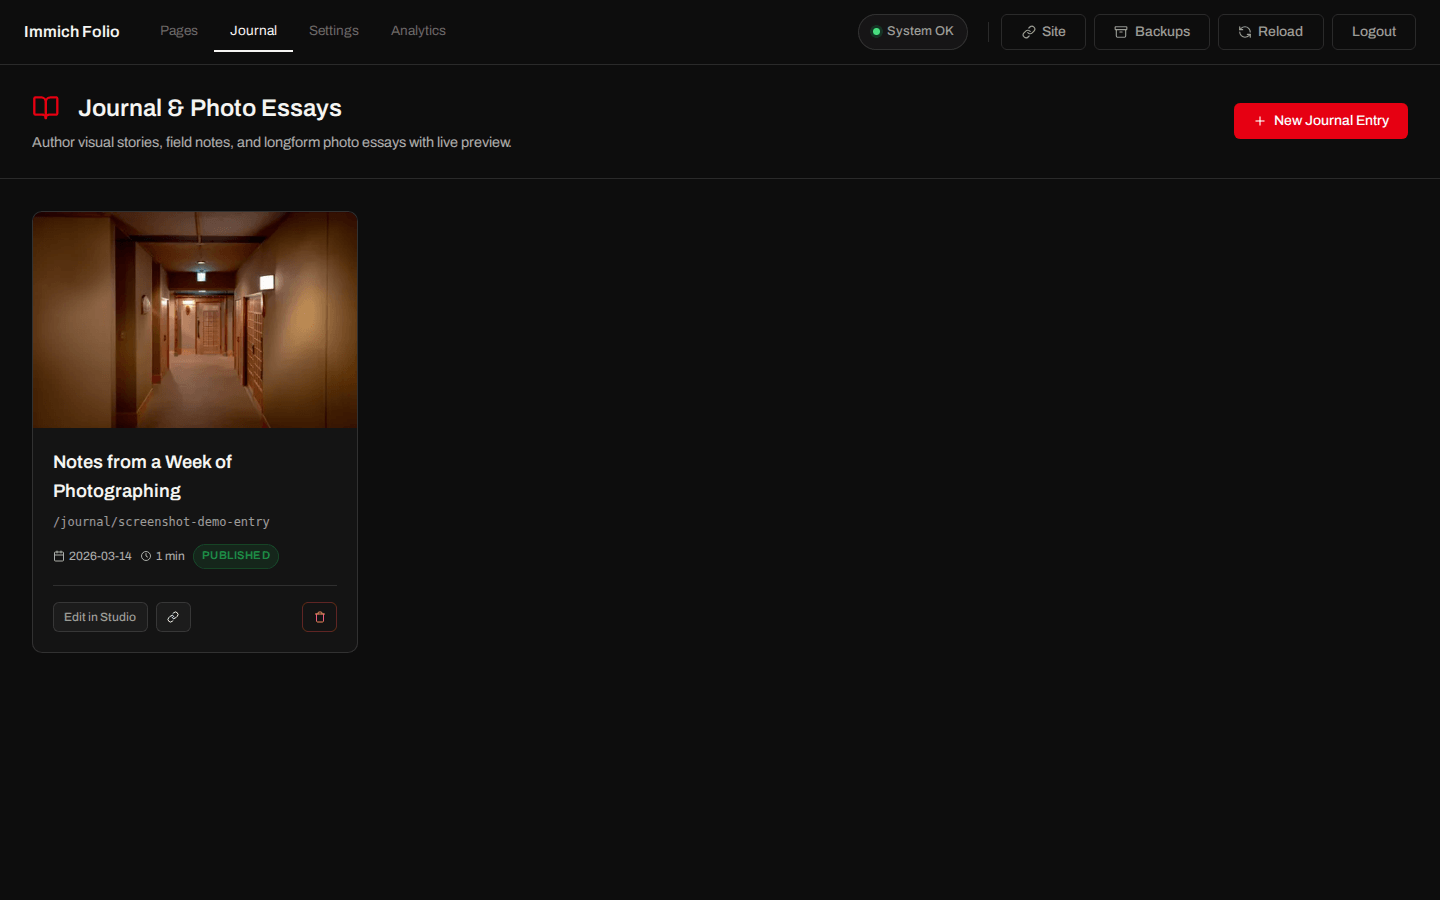
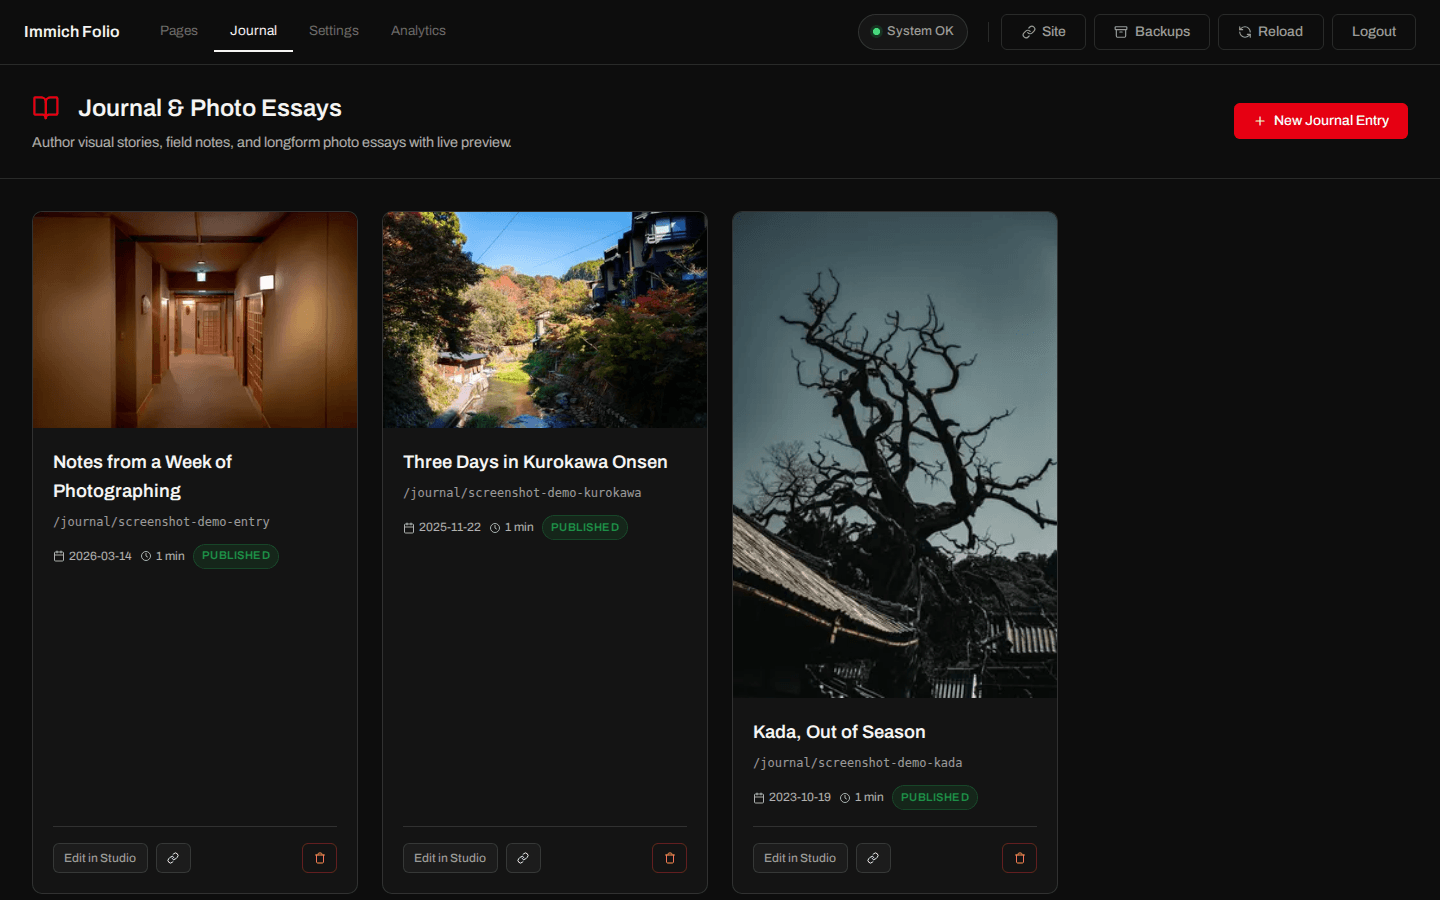
docs(journal): fill the journal index shot with two more entries
The index screenshot showed a single card on an otherwise empty page, which
reads as an empty feature rather than a journal.

The script now writes two companion entries alongside the generic one, each
bound to an album by name and with prose about that place — a river-gorge
onsen village and a fishing harbour. Binding text to album is what the main
entry deliberately avoids, since its album is picked at run time; these two
only exist while the pairing holds, so an installation without a matching
album skips them and the index falls back to the single entry.

Their photos are sampled across the album instead of taken from the front
(the opening frames are the journey there, not the place), and the cover is
the one the album's owner picked in Immich. All three entries are removed in
the same `finally` as before.

diff --git a/scripts/screenshots.ts b/scripts/screenshots.ts
@@ -24,6 +24,10 @@
  * up in a published screenshot at full size: pick an album you would show a
  * stranger, not one that happens to be large.
  *
+ * Two further entries are written from albums matched by name, so the index
+ * shot shows a list rather than one lonely card. They are skipped on an
+ * installation without those albums — see EXTRA_JOURNAL_ENTRIES.
+ *
  * The album used for the grid shots is discovered by walking the running site,
  * since album slugs come from Immich album names. SCREENSHOT_GRID_PATH picks a
  * specific one instead, SCREENSHOT_SUBPAGE_PATH the collection overview.
@@ -111,6 +115,24 @@ const DEMO_JOURNAL_SLUG = 'screenshot-demo-entry';
  * site identity in DEMO_SETTINGS.
  */
 const JOURNAL_ALBUM = process.env.SCREENSHOT_JOURNAL_ALBUM;
+/**
+ * Companion entries, so the index shot shows a list of stories rather than a
+ * single card on an otherwise empty page. Unlike the main entry — whose album
+ * is chosen at run time and whose prose is therefore deliberately about
+ * photographing rather than about a place — each of these is bound to one
+ * album and its text describes that place, which only works while the two are
+ * kept together. An installation without a matching album simply skips them
+ * and the index shows the main entry alone.
+ */
+const EXTRA_JOURNAL_ENTRIES: {
+  slug: string;
+  /** Matched against the Immich album name, case-insensitive substring. */
+  album: string;
+  markdown: (ids: string[]) => string;
+}[] = [
+  { slug: 'screenshot-demo-kurokawa', album: 'kurokawa', markdown: kurokawaJournalMarkdown },
+  { slug: 'screenshot-demo-kada', album: 'kada', markdown: kadaJournalMarkdown },
+];
 
 /** Pages that never carry a photo grid — skipped while looking for an album. */
 const EXCLUDED_PATHS = new Set(['/', '/about', '/map', '/impressum', '/admin']);
@@ -493,7 +515,7 @@ async function captureJournal(browser: Browser): Promise<void> {
     return;
   }
 
-  let written = false;
+  const written: string[] = [];
   try {
     await withPage(browser, VIEWPORT, async (page) => {
       await adminLogin(page);
@@ -506,7 +528,8 @@ async function captureJournal(browser: Browser): Promise<void> {
 
       fs.mkdirSync(JOURNAL_DIR, { recursive: true });
       fs.writeFileSync(entryPath, demoJournalMarkdown(assetIds));
-      written = true;
+      written.push(entryPath);
+      await writeExtraEntries(page, written);
       await sleep(CONFIG_RELOAD_DELAY);
 
       // Studio first: the session is already open on this page.
@@ -521,10 +544,33 @@ async function captureJournal(browser: Browser): Promise<void> {
       await captureJournalEntry(page);
     });
   } finally {
-    if (written && fs.existsSync(entryPath)) {
-      fs.rmSync(entryPath, { force: true });
-      console.log(`  🧹 Removed the demo entry (${DEMO_JOURNAL_SLUG}.md)`);
+    for (const file of written) {
+      if (fs.existsSync(file)) {
+        fs.rmSync(file, { force: true });
+        console.log(`  🧹 Removed the demo entry (${path.basename(file)})`);
+      }
     }
+  }
+}
+
+/**
+ * The album-bound companion entries. Each is skipped without failing the run
+ * when its album is missing (another installation) or when a file with that
+ * slug already exists (an author's own entry is never overwritten).
+ */
+async function writeExtraEntries(page: Page, written: string[]): Promise<void> {
+  for (const extra of EXTRA_JOURNAL_ENTRIES) {
+    const file = path.join(JOURNAL_DIR, `${extra.slug}.md`);
+    if (fs.existsSync(file)) {
+      console.log(`  ⏭  ${extra.slug}.md already exists — leaving it alone.`);
+      continue;
+    }
+    const photos = await demoAlbumPhotos(page, extra.album);
+    if (!photos || photos.ids.length < 4) continue;
+    const picked = spreadSample(photos.ids, 4);
+    if (photos.coverId) picked[0] = photos.coverId;
+    fs.writeFileSync(file, extra.markdown(picked));
+    written.push(file);
   }
 }
 
@@ -562,32 +608,49 @@ async function adminLogin(page: Page): Promise<void> {
  * Raw asset UUIDs for the demo entry, via the admin API. `page.request` shares
  * the context's cookies, so the session from adminLogin() carries over.
  */
-async function demoAssetIds(page: Page): Promise<string[]> {
-  const albumsRes = await page.request.get(`${BASE_URL}/api/admin/albums`);
-  if (!albumsRes.ok()) return [];
-  const albums = (await albumsRes.json()) as
-    | { albums?: { id: string; albumName: string; assetCount: number }[] }
-    | { id: string; albumName: string; assetCount: number }[];
-  const list = Array.isArray(albums) ? albums : (albums.albums ?? []);
-  if (list.length === 0) return [];
+async function demoAssetIds(page: Page, albumName = JOURNAL_ALBUM): Promise<string[]> {
+  return (await demoAlbumPhotos(page, albumName))?.ids ?? [];
+}
 
-  const wantedName = JOURNAL_ALBUM?.toLowerCase();
+/**
+ * The matched album's photos plus the cover its owner picked in Immich, which
+ * is a better opening image for an entry than whatever happens to be first in
+ * capture order.
+ */
+async function demoAlbumPhotos(
+  page: Page,
+  albumName = JOURNAL_ALBUM,
+): Promise<{ ids: string[]; coverId?: string } | null> {
+  type AdminAlbum = {
+    id: string;
+    albumName: string;
+    assetCount: number;
+    thumbnailAssetId?: string | null;
+  };
+  const albumsRes = await page.request.get(`${BASE_URL}/api/admin/albums`);
+  if (!albumsRes.ok()) return null;
+  const albums = (await albumsRes.json()) as { albums?: AdminAlbum[] } | AdminAlbum[];
+  const list = Array.isArray(albums) ? albums : (albums.albums ?? []);
+  if (list.length === 0) return null;
+
+  const wantedName = albumName?.toLowerCase();
   const album = wantedName
     ? list.find((a) => a.albumName.toLowerCase().includes(wantedName))
     : [...list].sort((a, b) => (b.assetCount ?? 0) - (a.assetCount ?? 0))[0];
   if (!album) {
-    console.log(`  ⏭  No album matching "${JOURNAL_ALBUM}" — skipping the journal shots.`);
-    return [];
+    console.log(`  ⏭  No album matching "${albumName}" — skipping that entry.`);
+    return null;
   }
   console.log(`  🔎 Demo entry photos from: ${album.albumName}`);
 
   const assetsRes = await page.request.get(`${BASE_URL}/api/admin/albums/${album.id}/assets`);
-  if (!assetsRes.ok()) return [];
+  if (!assetsRes.ok()) return null;
   const payload = (await assetsRes.json()) as
     { assets?: { id: string; type?: string }[] } | { id: string; type?: string }[];
   const assets = Array.isArray(payload) ? payload : (payload.assets ?? []);
   // Videos render a player, not a photo block.
-  return assets.filter((a) => (a.type ?? 'IMAGE').toUpperCase() === 'IMAGE').map((a) => a.id);
+  const ids = assets.filter((a) => (a.type ?? 'IMAGE').toUpperCase() === 'IMAGE').map((a) => a.id);
+  return { ids, coverId: album.thumbnailAssetId ?? undefined };
 }
 
 /**
@@ -639,6 +702,85 @@ Not the wide views, in the end, but the repetitions — the same twenty minutes
 of light, the same short walk back, the same handful of frames worth keeping
 out of a few hundred.
 ${contained ? `\n![${contained}](The last morning, before packing up)\n` : ''}`;
+}
+
+/**
+ * `count` photos spread over the album rather than its first few. Albums are
+ * in capture order, so the opening frames are the journey there — a station,
+ * a train window — which makes a poor cover for an entry about the place. The
+ * first fifth is skipped for the same reason.
+ */
+function spreadSample(ids: string[], count: number): string[] {
+  const start = Math.floor(ids.length / 5);
+  const usable = ids.slice(start);
+  const step = Math.max(1, Math.floor(usable.length / count));
+  return Array.from({ length: count }, (_, i) => usable[Math.min(i * step, usable.length - 1)]);
+}
+
+/**
+ * Companion entry for the Kurokawa Onsen album. Shorter than the main one: it
+ * exists to fill the index, and only its card is ever screenshot. The prose
+ * stays at the level of the place and the season, since which frames it gets
+ * depends on the album's order.
+ */
+function kurokawaJournalMarkdown(ids: string[]): string {
+  const [cover, fullbleed, pairA, pairB] = ids;
+  return `---
+title: "Three Days in Kurokawa Onsen"
+subtitle: "A village built into a river gorge, photographed between baths"
+author: "Jane Doe"
+date: "2025-11-22"
+coverAssetId: "${cover}"
+---
+
+# Down to the River
+
+The village sits in the cut of a small river, dark wood and tiled roofs
+stacked up both banks, and every path eventually leads back down to the water.
+Late November had the maples going over at different speeds — one tree still
+green, the next one already halfway to bare.
+
+![${fullbleed}:fullbleed](Kurokawa Onsen, late November)
+
+## Between Baths
+
+You buy a wooden pass and it lets you into three of the baths, so the days
+arrange themselves around walking from one to the next. Most of the frames here
+were made on those walks, in the hour before it got dark and the lanterns came
+on along the river.
+
+![${pairA}, ${pairB}](Two frames from the same short walk)
+`;
+}
+
+/** Companion entry for the Kada album — see kurokawaJournalMarkdown(). */
+function kadaJournalMarkdown(ids: string[]): string {
+  const [cover, fullbleed, pairA, pairB] = ids;
+  return `---
+title: "Kada, Out of Season"
+subtitle: "A fishing harbour on the Wakayama coast, mostly at 200mm"
+author: "Jane Doe"
+date: "2023-10-19"
+coverAssetId: "${cover}"
+---
+
+# The Harbour Road
+
+Kada is a working harbour before it is anything else: crates stacked against
+the sea wall, rope coiled where it was dropped, boats tied up in the middle of
+a weekday. Nothing is arranged for a visitor, which is most of why it is worth
+photographing.
+
+![${fullbleed}:fullbleed](Kada, October light)
+
+## At 200mm
+
+A long lens turned out to be the right choice here. It kept the distance
+honest — the roof tiles, the bare tree behind them, the cats asleep on warm
+concrete all stayed where they were instead of being walked up to.
+
+![${pairA}, ${pairB}](Two frames from the harbour road)
+`;
 }
 
 /** Best effort: the picker is a modal behind a button whose label may change. */
